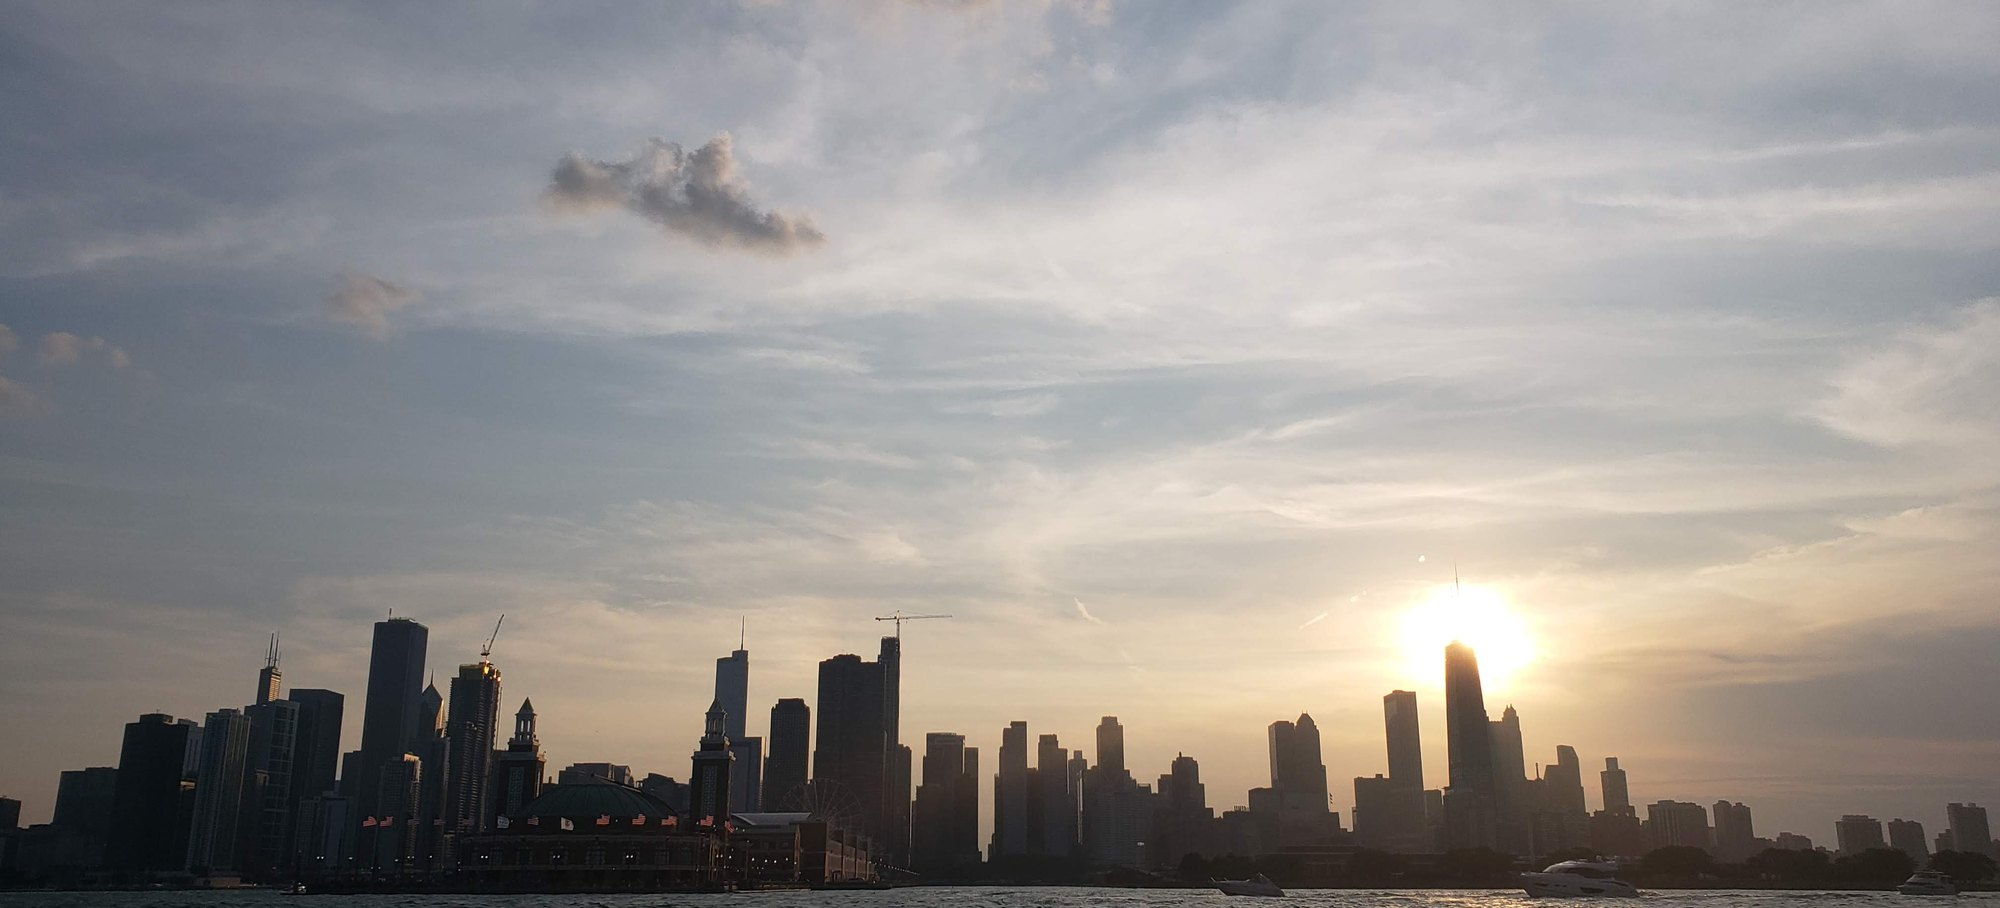
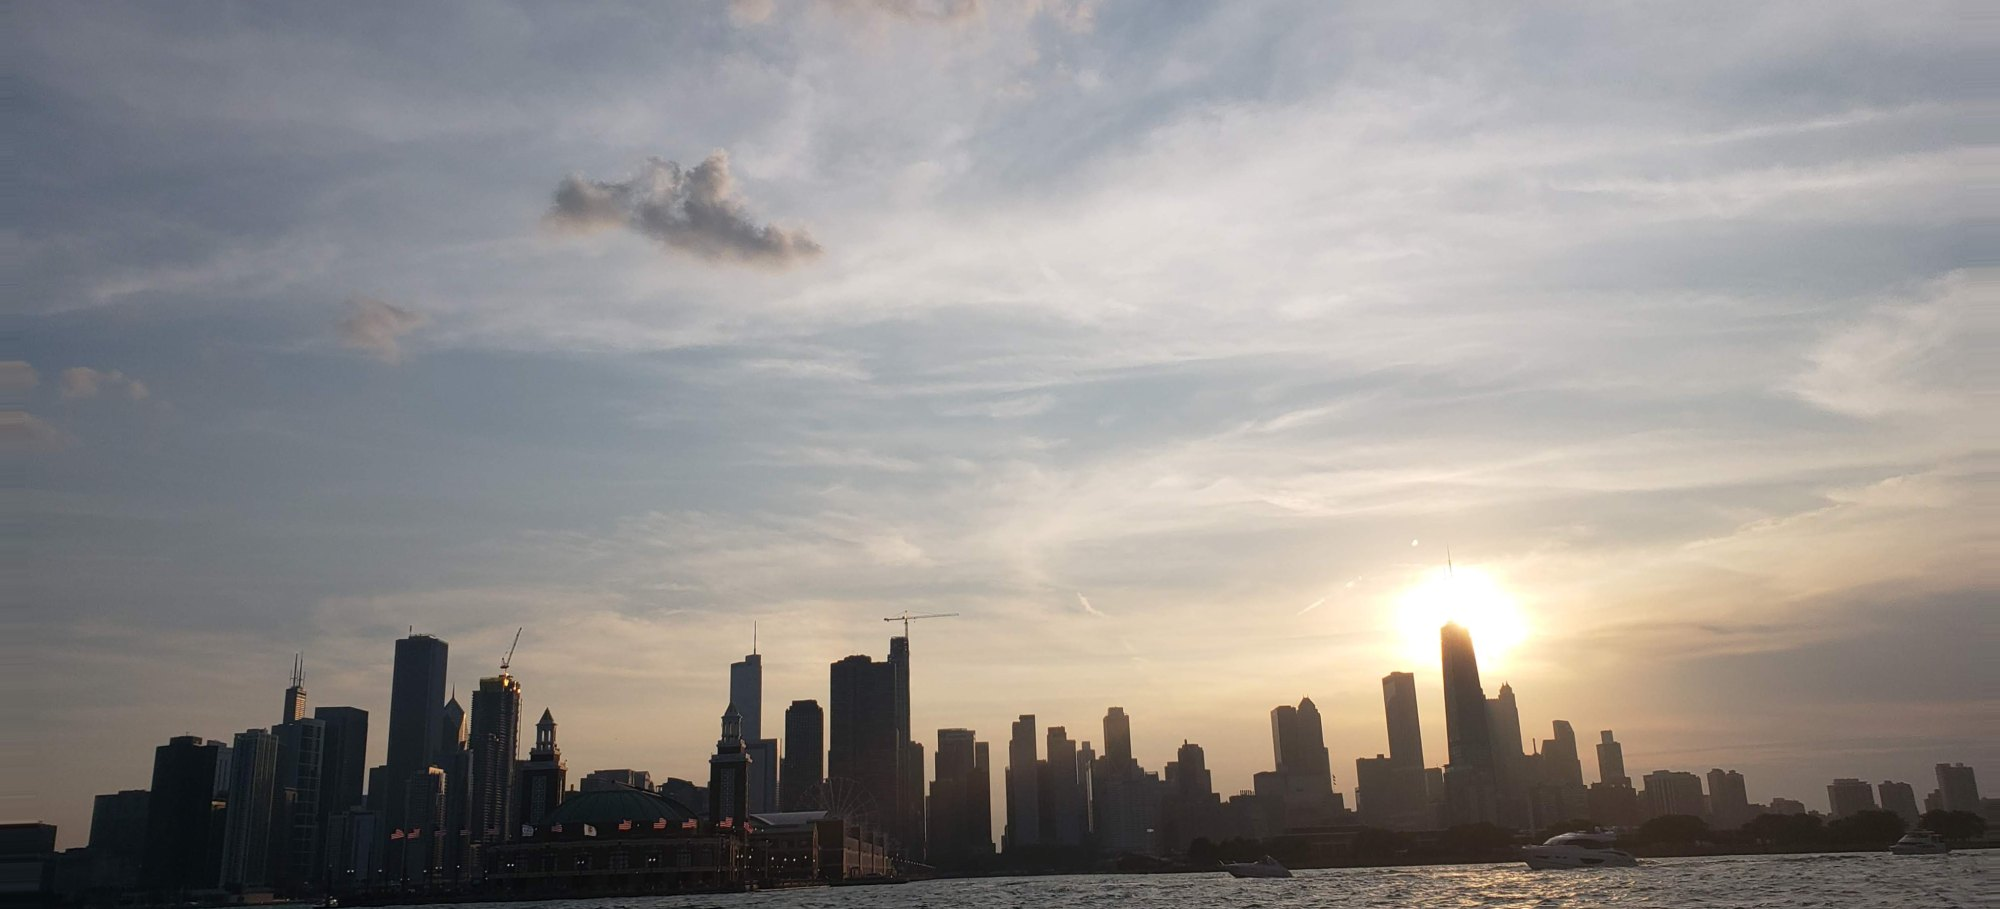
Level crooked Chicago album horizons for hero and gallery.

diff --git a/public/chicago/CREDITS.md b/public/chicago/CREDITS.md
@@ -1,5 +1,3 @@
-# Chicago photography — personal album (diversified crops)
+Personal Chicago album. Horizons leveled where crooked.
 
-Source: Google Photos album **CHICAGO** (Kenny/Bubba)
-Personal photographs only. Ultra-wide panoramas sliced into west/loop/east views;
-beach, harbor, fireworks, and night-over-trees prioritized for variety.
+Horizons leveled where crooked (2026-09-21).
